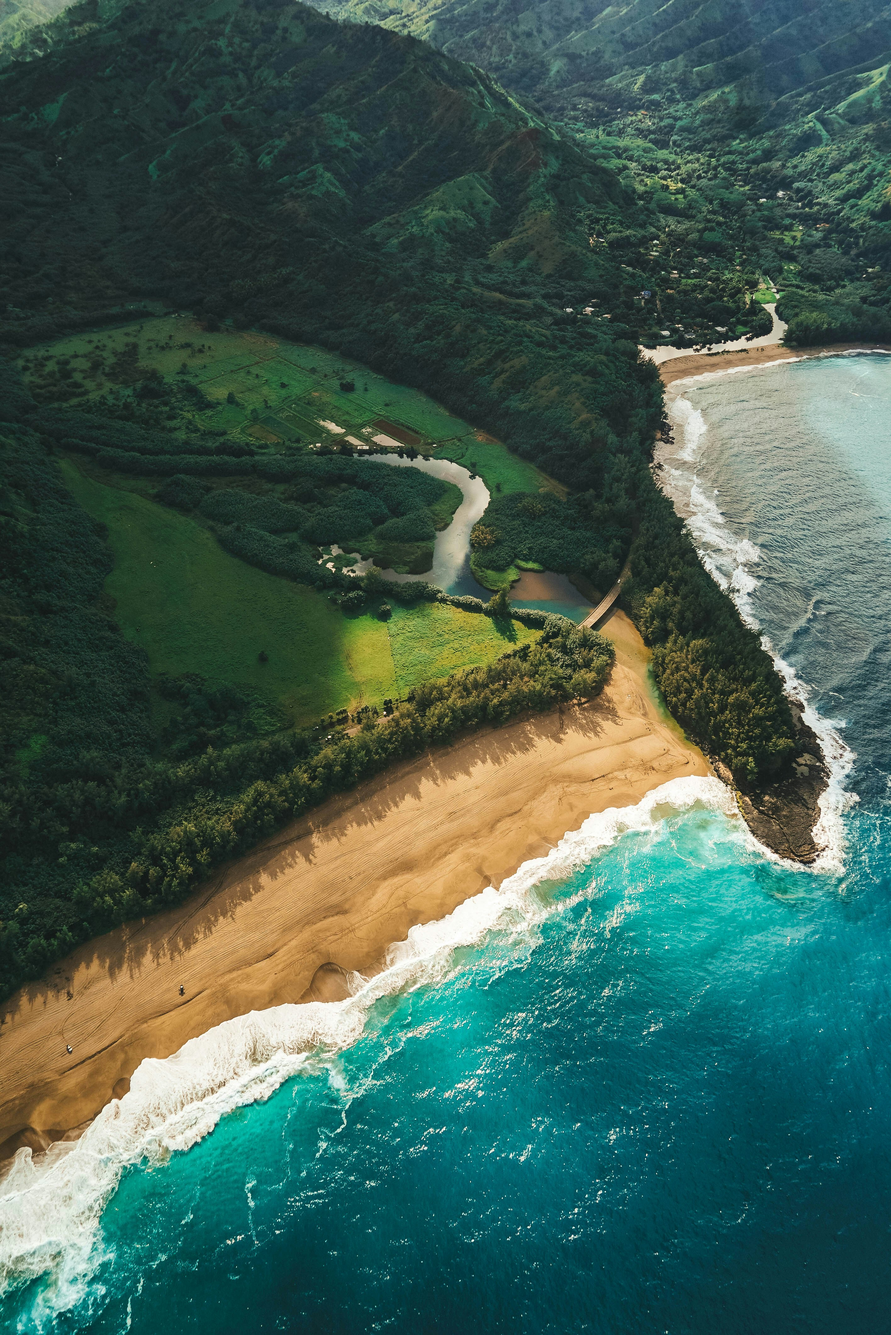
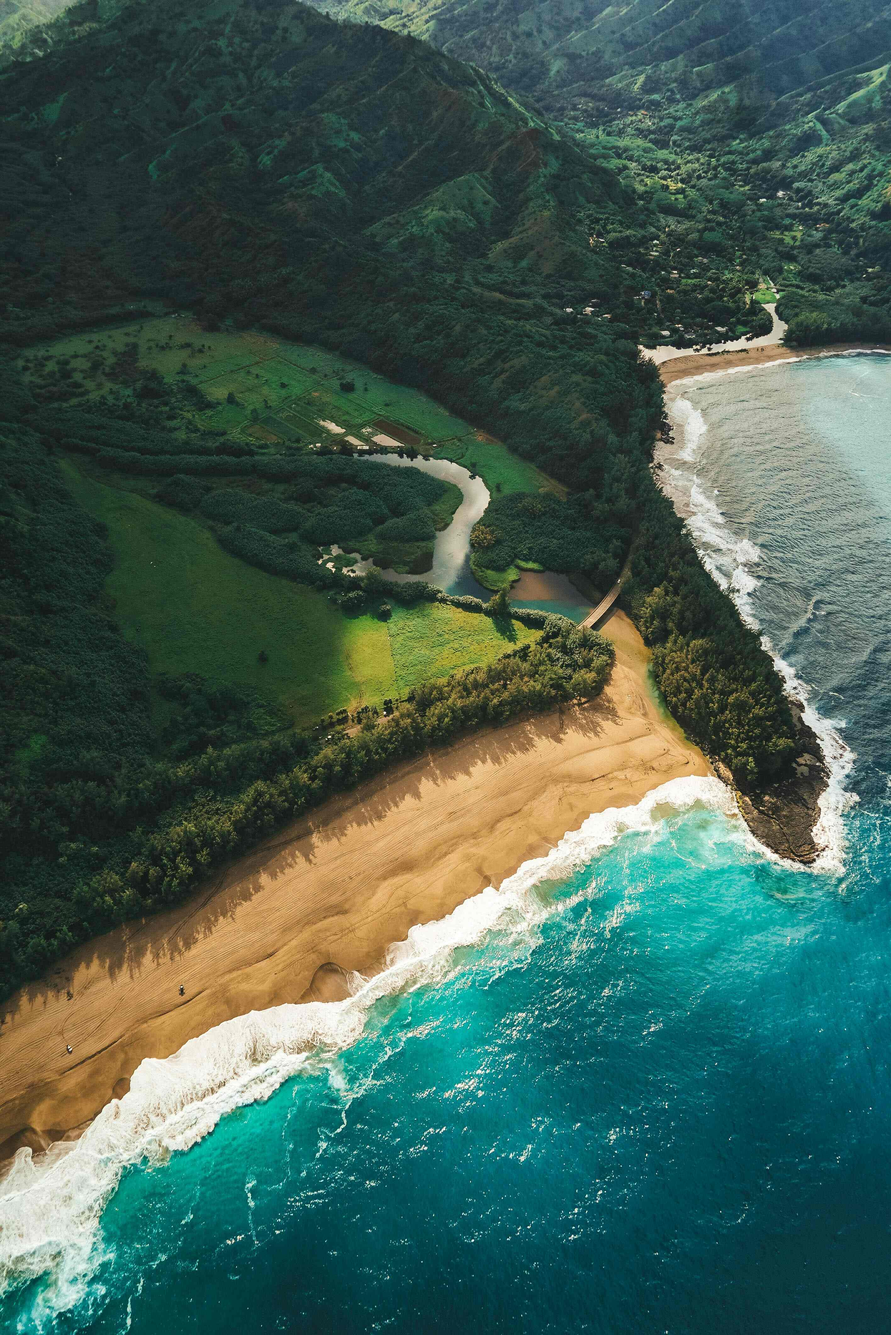
chore: 上传案例截图

diff --git a/README.md b/README.md
@@ -30,7 +30,11 @@ theme
 
 ## 📸 项目预览
 
-![Gvray Admin Preview](docs/screenshots/demo.webp)
+<p align="center">
+  <img src="./docs/screenshots/2026-08-08/light/demo.webp" width="49%" alt="Light Theme" />
+  
+  <img src="./docs/screenshots/2026-08-08/dark/demo.webp" width="49%" alt="Dark Theme" />
+</p>
 
 ## ✨ 核心能力
 
